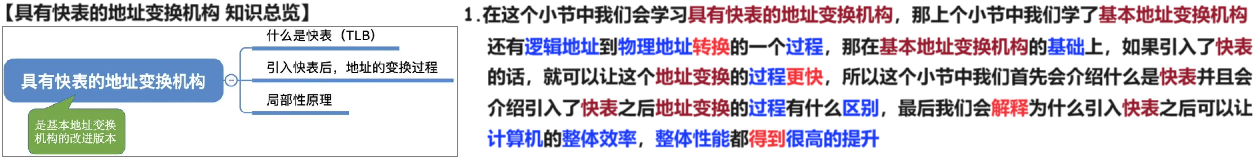
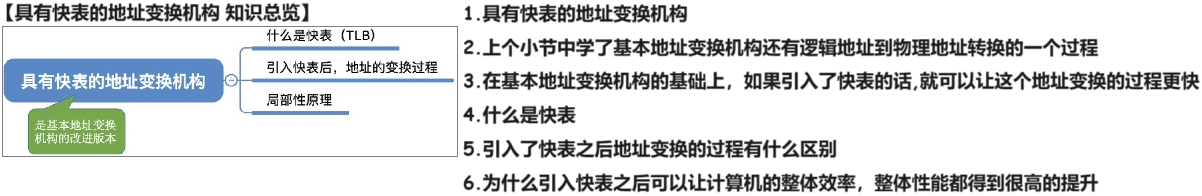
240627

diff --git a/01 初试/01 OS/02 24 25 王道/01 基础/03 内存管理/01 内存管理 概念/09 具有快表的地址变换机构 240627/02 消化/02 Doc.md b/01 初试/01 OS/02 24 25 王道/01 基础/03 内存管理/01 内存管理 概念/09 具有快表的地址变换机构 240627/02 消化/02 Doc.md
@@ -4,7 +4,7 @@
 
 # 01 具有快表的地址变换机构 知识总览
 
-<img src="https://cvp.oss-cn-shanghai.aliyuncs.com/picgo/202405141740646.png" alt="image-20240514174003562" style="zoom:50%;" />
+<img src="https://cvp.oss-cn-shanghai.aliyuncs.com/picgo/202406271157244.png" alt="image-20240627115735033" style="zoom: 50%;" />
 
 
 
